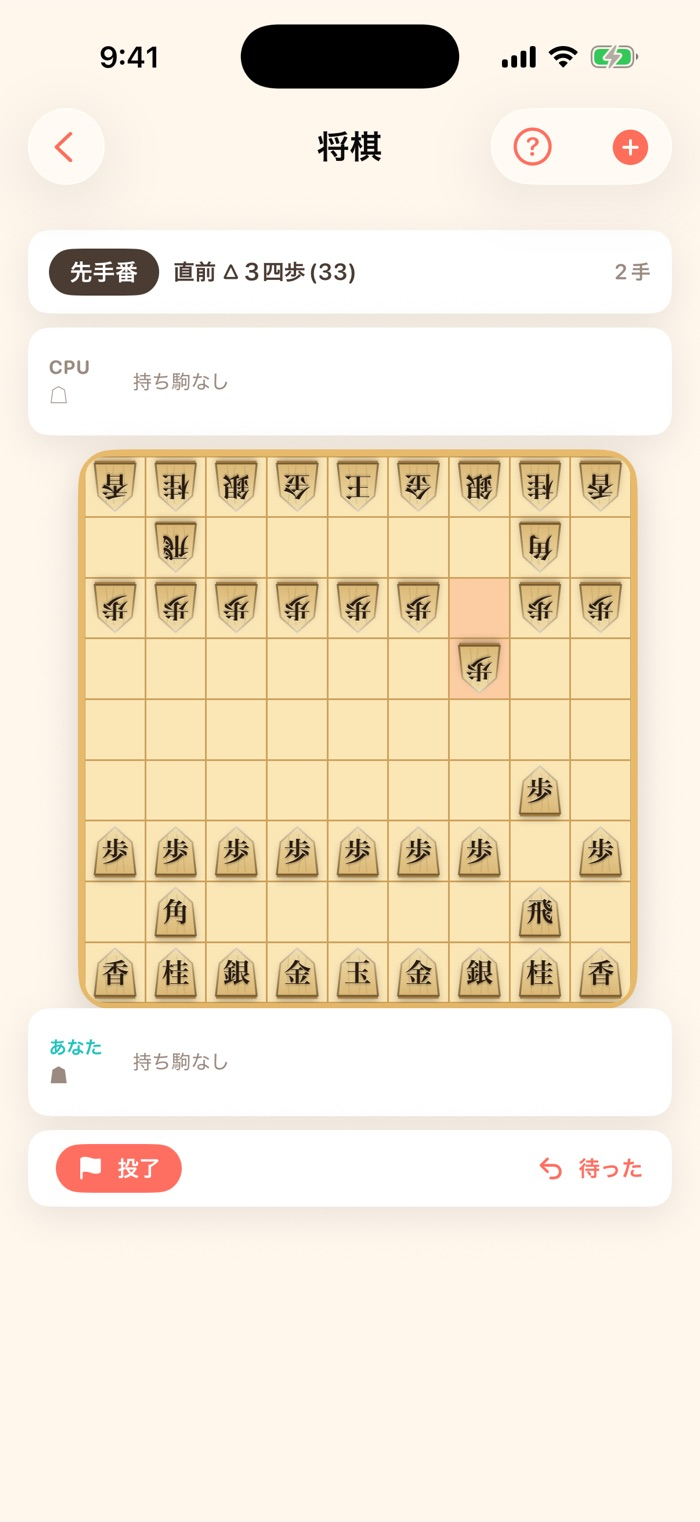
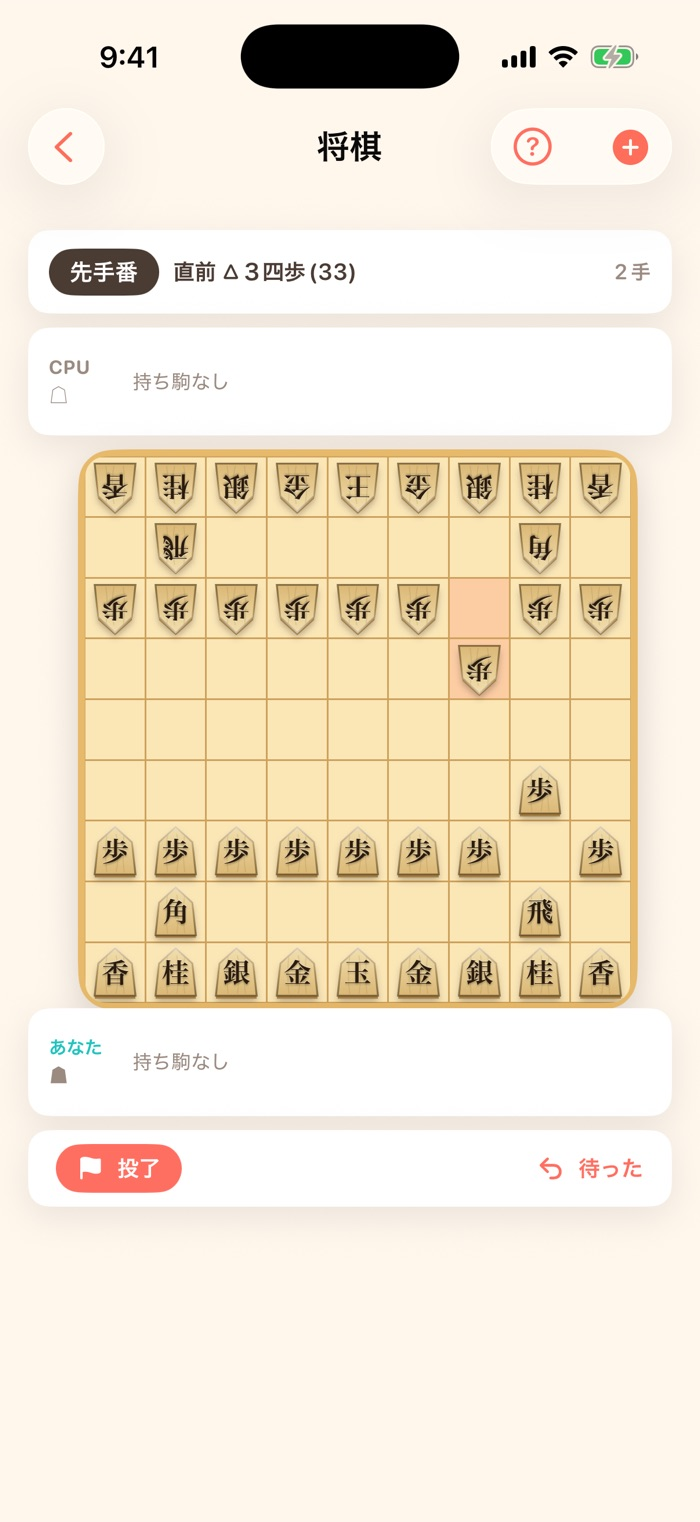
fix(shogi): 後手の駒で側面の厚みが上端に出る向き反転を直す (#366)
verifier の敵対的検証で検出。側面レイヤーを外側の rotationEffect の内側に
置いていたため、下方向のオフセットまで回って後手の駒だけ厚みが上に出ていた。
回転を側面と本体に別々に掛け、側面は回転 → オフセットの順にして
ずれを常に画面座標の下向きに固定する。

Claude-Session: https://claude.ai/code/session_015tRyhpZcJoRaDzRdHDSbei

diff --git a/Packages/GameKit/Sources/GameShogi/ShogiView.swift b/Packages/GameKit/Sources/GameShogi/ShogiView.swift
@@ -557,48 +557,56 @@ struct KomaView: View {
         ZStack {
             // 側面（#366）: 本体を下へずらした同じ駒形を濃い木色で敷き、木駒の厚みを見せる。
             // 落ち影はいちばん下のこの層に掛ける（本体に掛けると影が自分の側面に落ちて濁る）。
+            //
+            // 向きの回転はこの層と本体に**別々に**掛ける。外側の ZStack ごと回すと
+            // 下方向のオフセットまで回って、後手の駒だけ厚みが上端に出てしまう
+            // （厚みと影は駒の向きに関係なく、机に置かれた実物として常に下端が正しい）。
+            // 回転 → オフセットの順なので、ずれは常に画面座標の下向きになる。
             KomaShape()
                 .fill(BoardStyle.komaWoodSide)
+                .rotationEffect(.degrees(pointsUp ? 0 : 180))
                 .offset(y: size * 0.045)
                 .shadow(color: .black.opacity(0.28), radius: 2, y: 1.5)
             // 木地: 上が明るく下がやや濃い縦グラデーションで、削り出した木の丸みを表現。
-            KomaShape()
-                .fill(
-                    LinearGradient(
-                        colors: [BoardStyle.komaWoodLight, BoardStyle.komaWoodDark],
-                        startPoint: .top,
-                        endPoint: .bottom
-                    )
-                )
-                // 木目（#366）: 緩い縦カーブの筋を低い不透明度で重ねる。文字より下の層。
-                .overlay(
-                    KomaGrainShape()
-                        .stroke(BoardStyle.komaGrain.opacity(0.16),
-                                lineWidth: max(0.5, size * 0.02))
-                        .clipShape(KomaShape())
-                )
-                .overlay(KomaShape().stroke(Color(hex: 0x8A6A32).opacity(0.6), lineWidth: 1))
-                // ベゼル: 縁の内側に明→暗のグラデーション線を重ね、断面の厚みを疑似表現。
-                .overlay(
-                    KomaShape()
-                        .stroke(
-                            LinearGradient(
-                                colors: [Color.white.opacity(0.55), .clear, Color.black.opacity(0.25)],
-                                startPoint: .top,
-                                endPoint: .bottom
-                            ),
-                            lineWidth: max(1, size * 0.035)
+            ZStack {
+                KomaShape()
+                    .fill(
+                        LinearGradient(
+                            colors: [BoardStyle.komaWoodLight, BoardStyle.komaWoodDark],
+                            startPoint: .top,
+                            endPoint: .bottom
                         )
-                )
-            Text(Glyph.kanji(for: piece))
-                .font(.system(size: size * 0.46, weight: .black, design: .serif))
-                .foregroundStyle(piece.promoted ? Theme.coral : Color(hex: 0x2A1B0E))
-                // 彫り込まれた文字に見えるよう、上に淡いハイライト・下に淡い影を重ねる。
-                .shadow(color: .white.opacity(0.4), radius: 0, x: 0, y: -0.5)
-                .shadow(color: .black.opacity(0.3), radius: 0.5, x: 0, y: 0.8)
+                    )
+                    // 木目（#366）: 緩い縦カーブの筋を低い不透明度で重ねる。文字より下の層。
+                    .overlay(
+                        KomaGrainShape()
+                            .stroke(BoardStyle.komaGrain.opacity(0.16),
+                                    lineWidth: max(0.5, size * 0.02))
+                            .clipShape(KomaShape())
+                    )
+                    .overlay(KomaShape().stroke(Color(hex: 0x8A6A32).opacity(0.6), lineWidth: 1))
+                    // ベゼル: 縁の内側に明→暗のグラデーション線を重ね、断面の厚みを疑似表現。
+                    .overlay(
+                        KomaShape()
+                            .stroke(
+                                LinearGradient(
+                                    colors: [Color.white.opacity(0.55), .clear, Color.black.opacity(0.25)],
+                                    startPoint: .top,
+                                    endPoint: .bottom
+                                ),
+                                lineWidth: max(1, size * 0.035)
+                            )
+                    )
+                Text(Glyph.kanji(for: piece))
+                    .font(.system(size: size * 0.46, weight: .black, design: .serif))
+                    .foregroundStyle(piece.promoted ? Theme.coral : Color(hex: 0x2A1B0E))
+                    // 彫り込まれた文字に見えるよう、上に淡いハイライト・下に淡い影を重ねる。
+                    .shadow(color: .white.opacity(0.4), radius: 0, x: 0, y: -0.5)
+                    .shadow(color: .black.opacity(0.3), radius: 0.5, x: 0, y: 0.8)
+            }
+            .rotationEffect(.degrees(pointsUp ? 0 : 180))
         }
         .frame(width: size * 0.86, height: size * 0.86)
-        .rotationEffect(.degrees(pointsUp ? 0 : 180))
     }
 }
 
